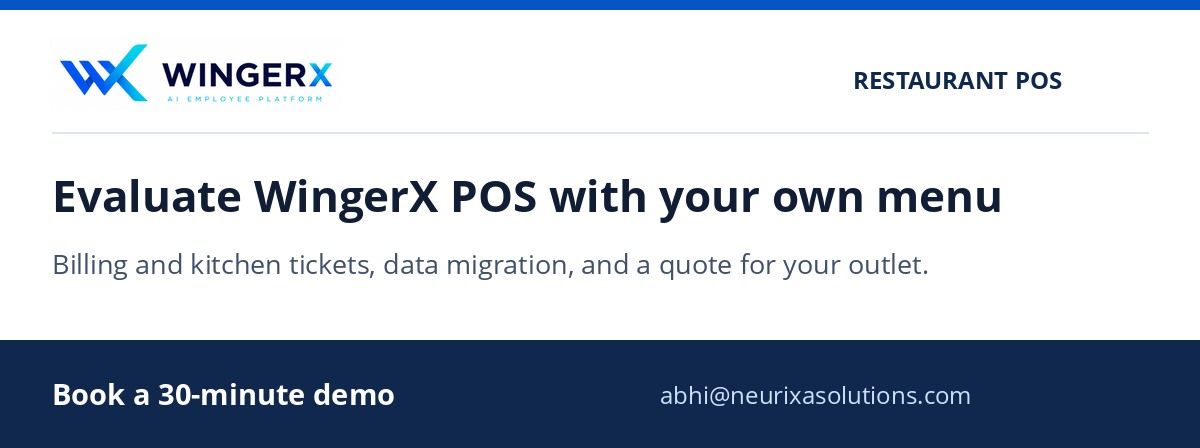
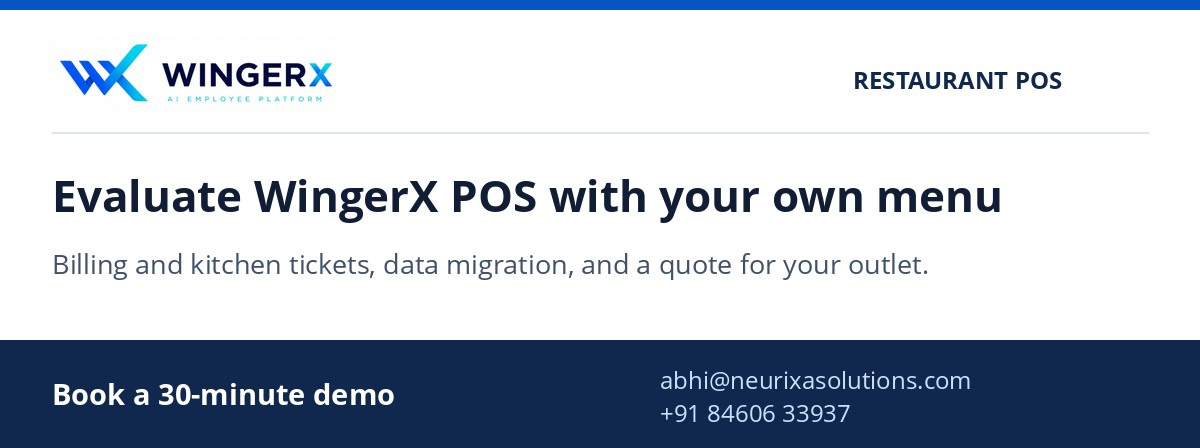
Add Abhi's phone number to POS outreach materials

Changed region(s): [[0.555, 0.8125, 0.8017, 0.9375]]

diff --git a/packages/twenty-front/src/modules/wingerx/utils/buildNeurixaPosEmail.ts b/packages/twenty-front/src/modules/wingerx/utils/buildNeurixaPosEmail.ts
@@ -8,7 +8,7 @@ export const buildNeurixaPosEmail = (recipientName?: string) => {
       'I’m Abhi from Neurixa Solutions. In a WingerX POS demo, we’ll use items from your menu to take an order, send it to the kitchen, close the bill, and find the sale in your daily report.',
       'Already using a POS? We can review a sample export, show you what can move, and discuss a trial at one outlet. You’ll get a clear breakdown of setup, ongoing support, and any hardware or integrations you choose.',
       'I’ve attached a one-page overview. If you’d like to see it live, reply DEMO and I’ll send you a couple of times.',
-      'Thanks,\nAbhi\nWingerX by Neurixa Solutions\nabhi@neurixasolutions.com',
+      'Thanks,\nAbhi\nWingerX by Neurixa Solutions\nabhi@neurixasolutions.com\n+91 84606 33937',
     ].join('\n\n'),
   };
 };
